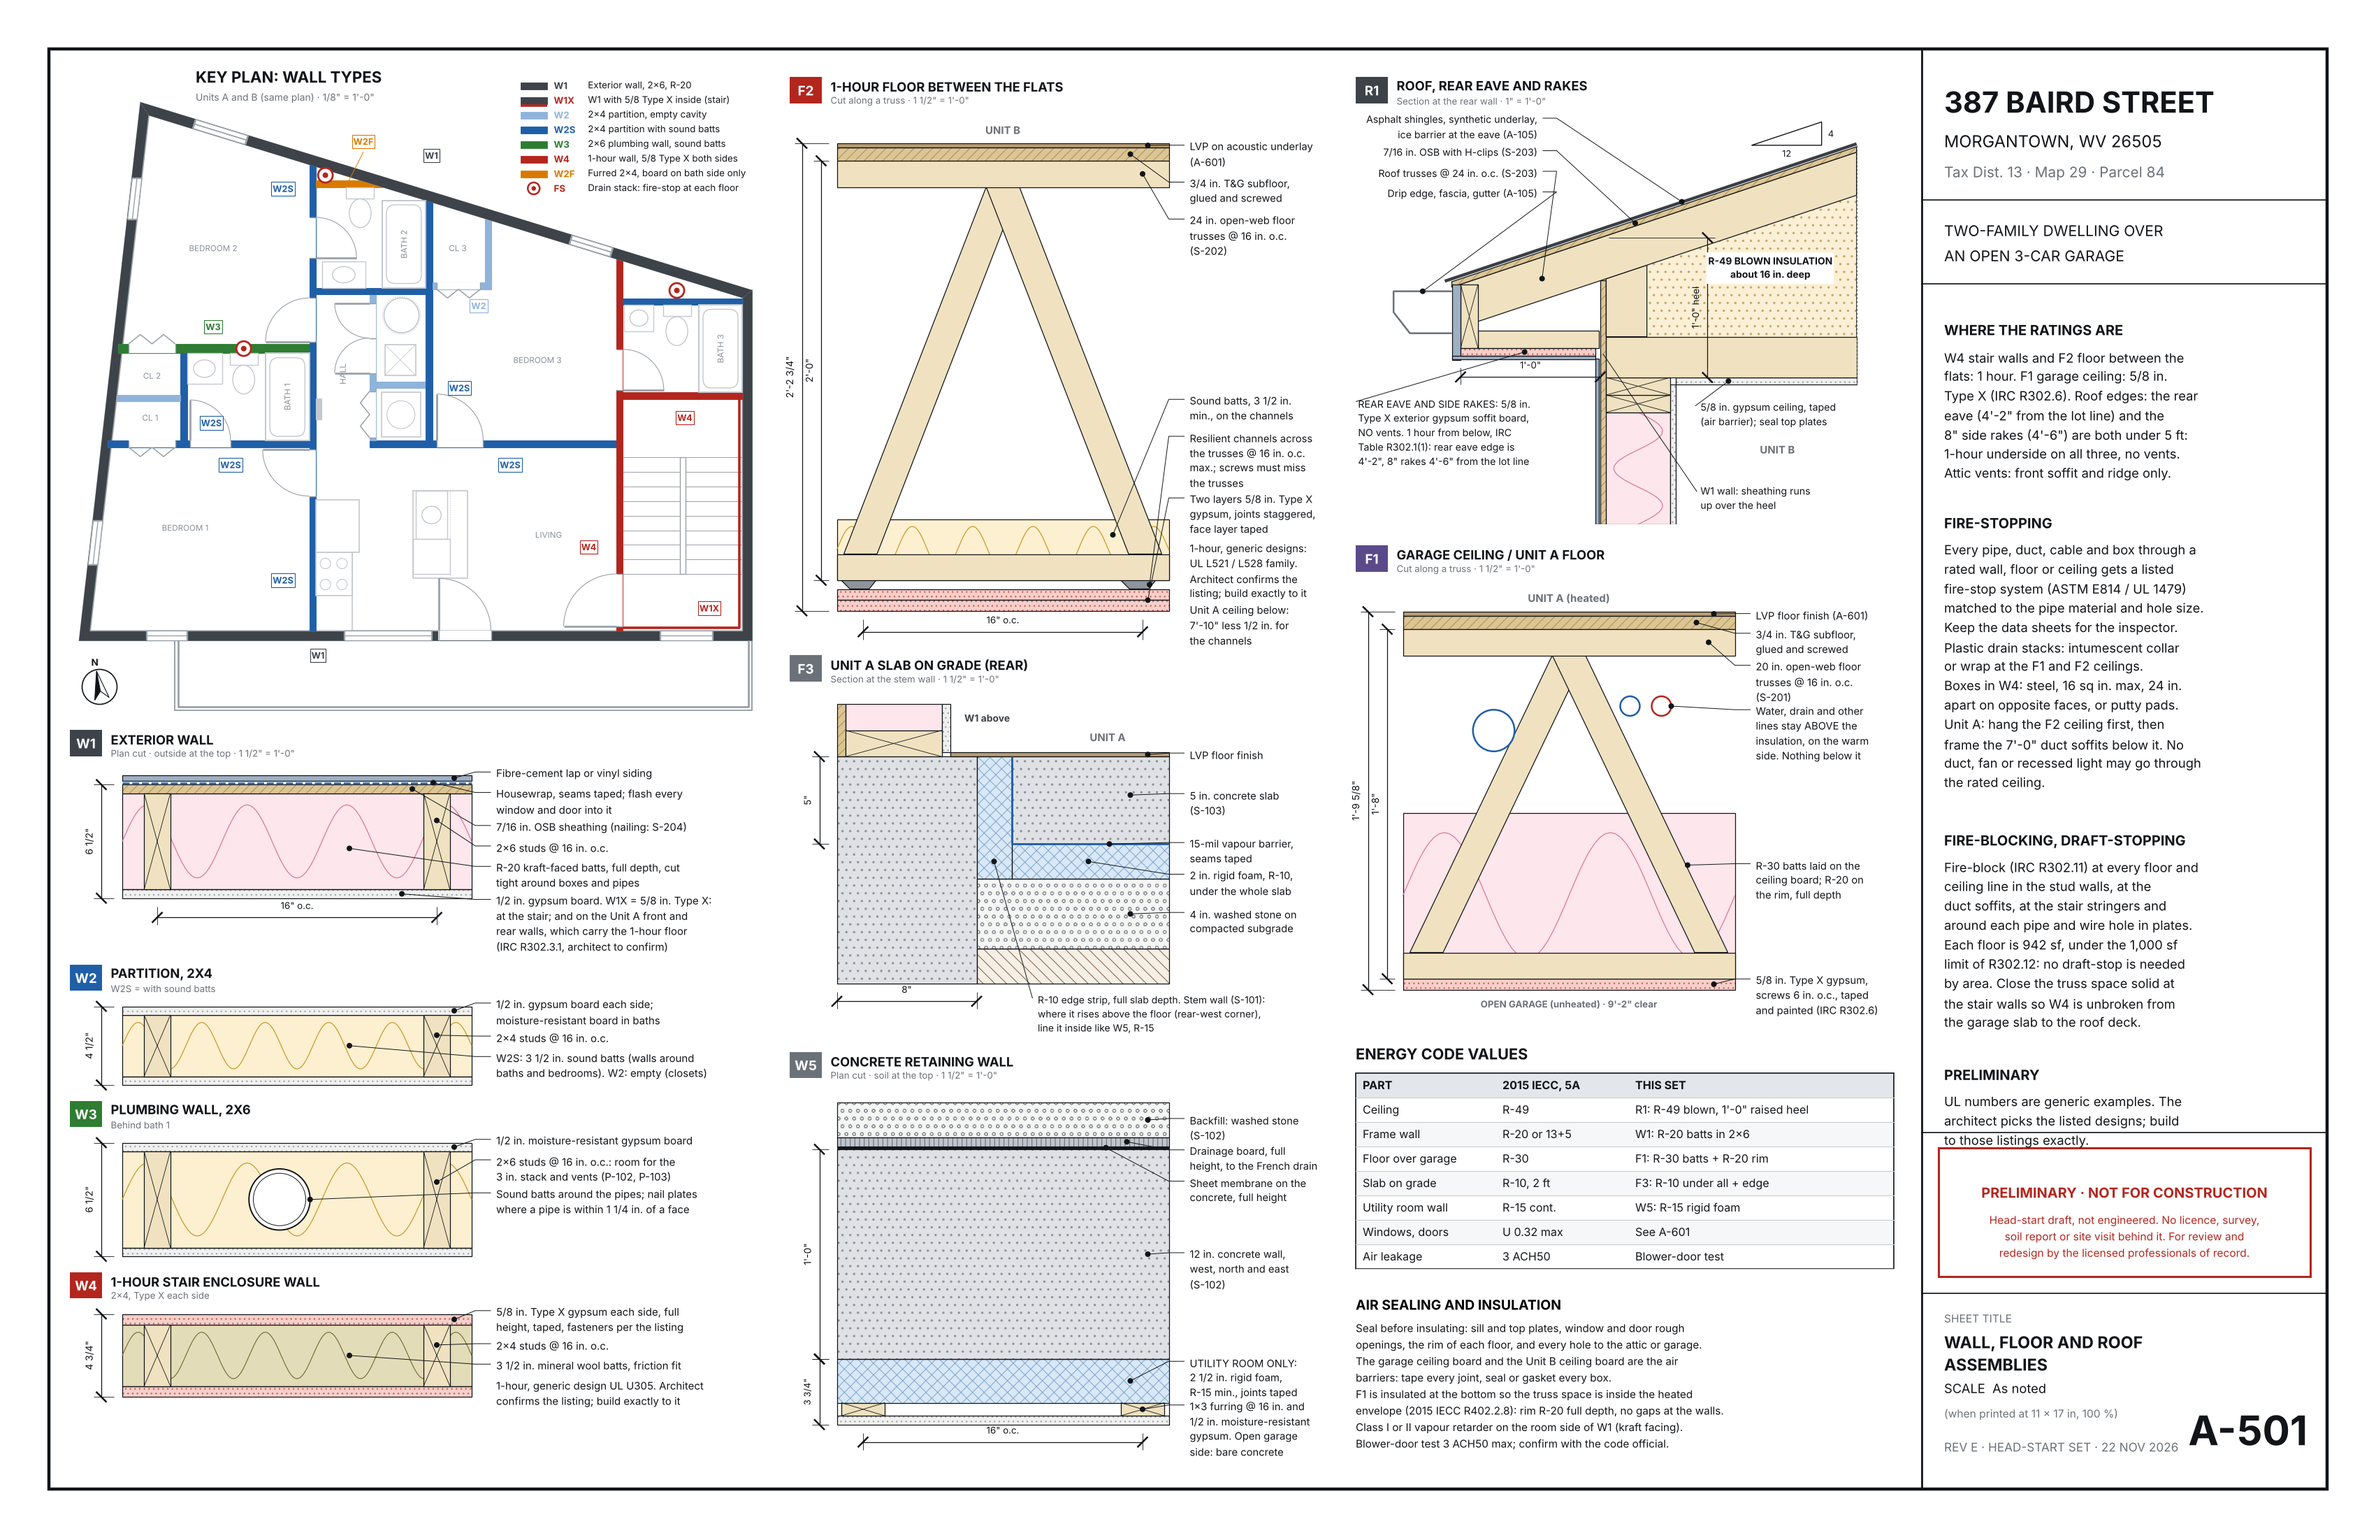
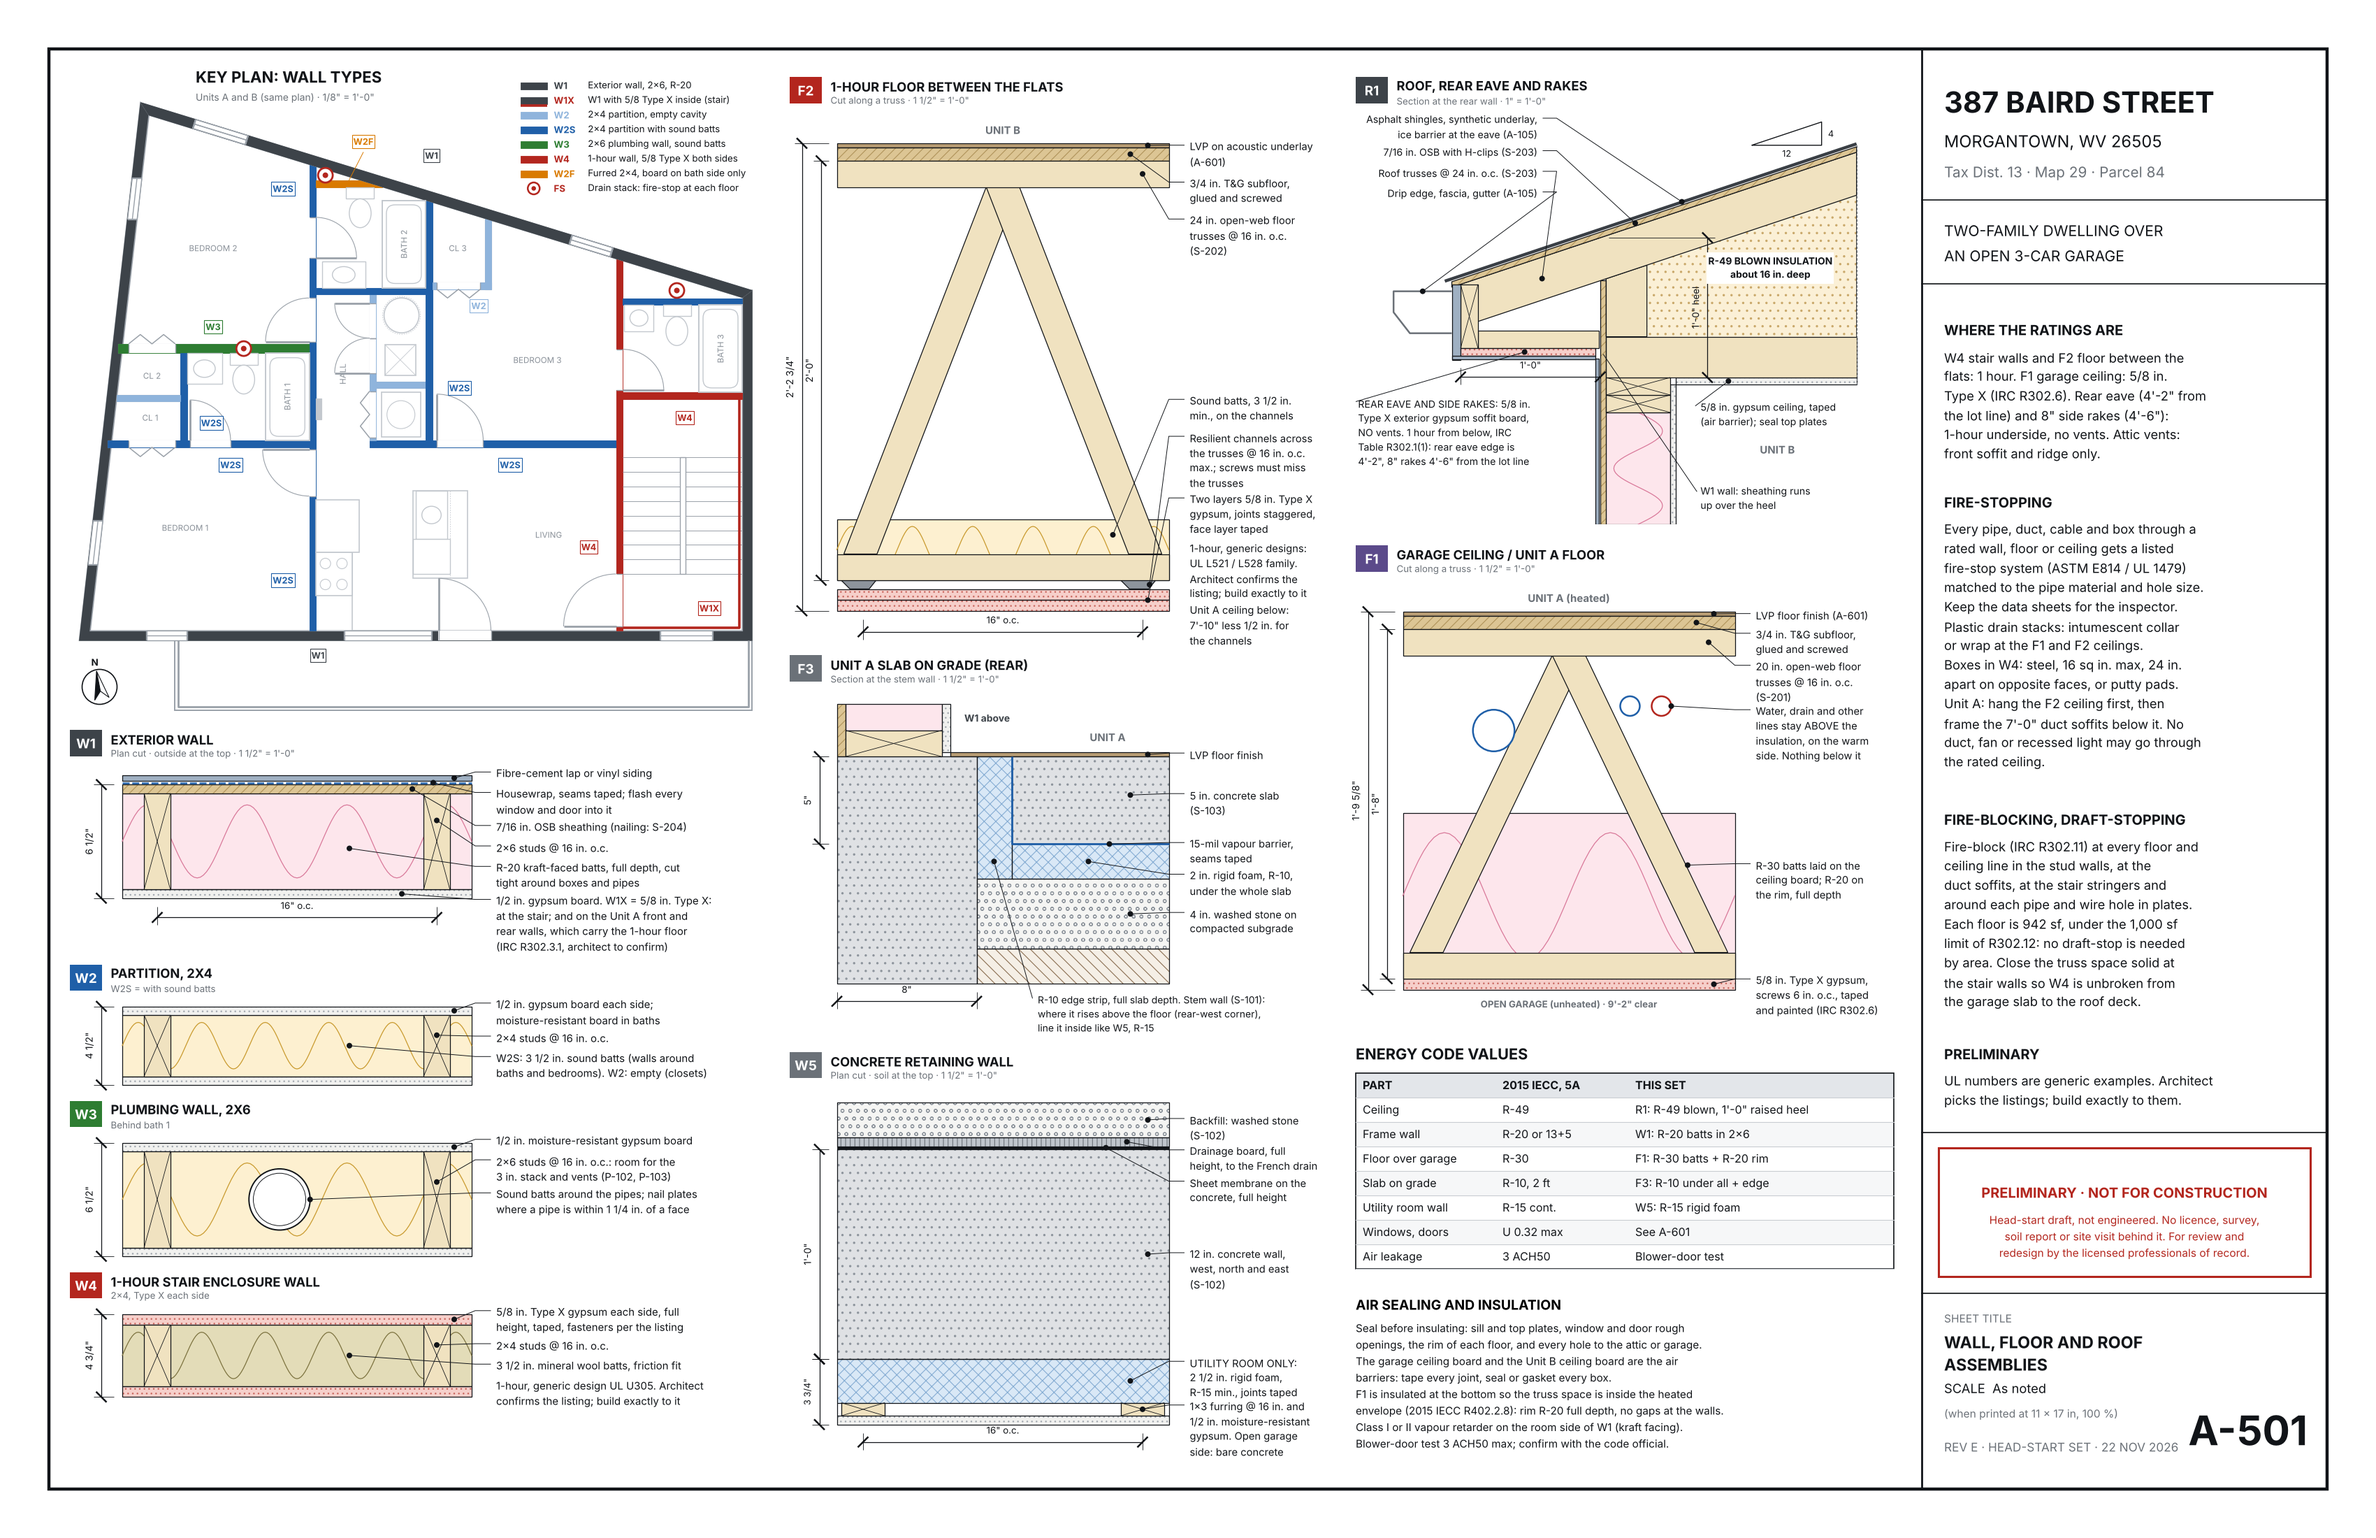
Rev E in progress: foundation sheets updated for the change notice
Claude-Session: https://claude.ai/code/session_016eFDD5ddAYxvJDci7BiMtr

Changed region(s): [[0.8106, 0.2473, 0.9353, 0.7418]]

diff --git a/src/sheets_a3.py b/src/sheets_a3.py
@@ -307,11 +307,10 @@ def sheet_a501(pdf):
         ("Where the ratings are", [
             "W4 stair walls and F2 floor between the\n"
             "flats: 1 hour. F1 garage ceiling: 5/8 in.\n"
-            "Type X (IRC R302.6). Roof edges: the rear\n"
-            f"eave ({ftin(eave_face)} from the lot line) and the\n"
-            f"{inch(RAKE)} side rakes ({ftin(rake_face)}) are both under 5 ft:\n"
-            "1-hour underside on all three, no vents.\n"
-            "Attic vents: front soffit and ridge only.",
+            f"Type X (IRC R302.6). Rear eave ({ftin(eave_face)} from\n"
+            f"the lot line) and {inch(RAKE)} side rakes ({ftin(rake_face)}):\n"
+            "1-hour underside, no vents. Attic vents:\n"
+            "front soffit and ridge only.",
         ]),
         ("Fire-stopping", [
             "Every pipe, duct, cable and box through a\n"
@@ -340,9 +339,8 @@ def sheet_a501(pdf):
             "the garage slab to the roof deck.",
         ]),
         ("Preliminary", [
-            "UL numbers are generic examples. The\n"
-            "architect picks the listed designs; build\n"
-            "to those listings exactly.",
+            "UL numbers are generic examples. Architect\n"
+            "picks the listings; build exactly to them.",
         ]),
     ]
     fig, bg = new_sheet("A-501", TITLE["A-501"], "As noted", notes)
